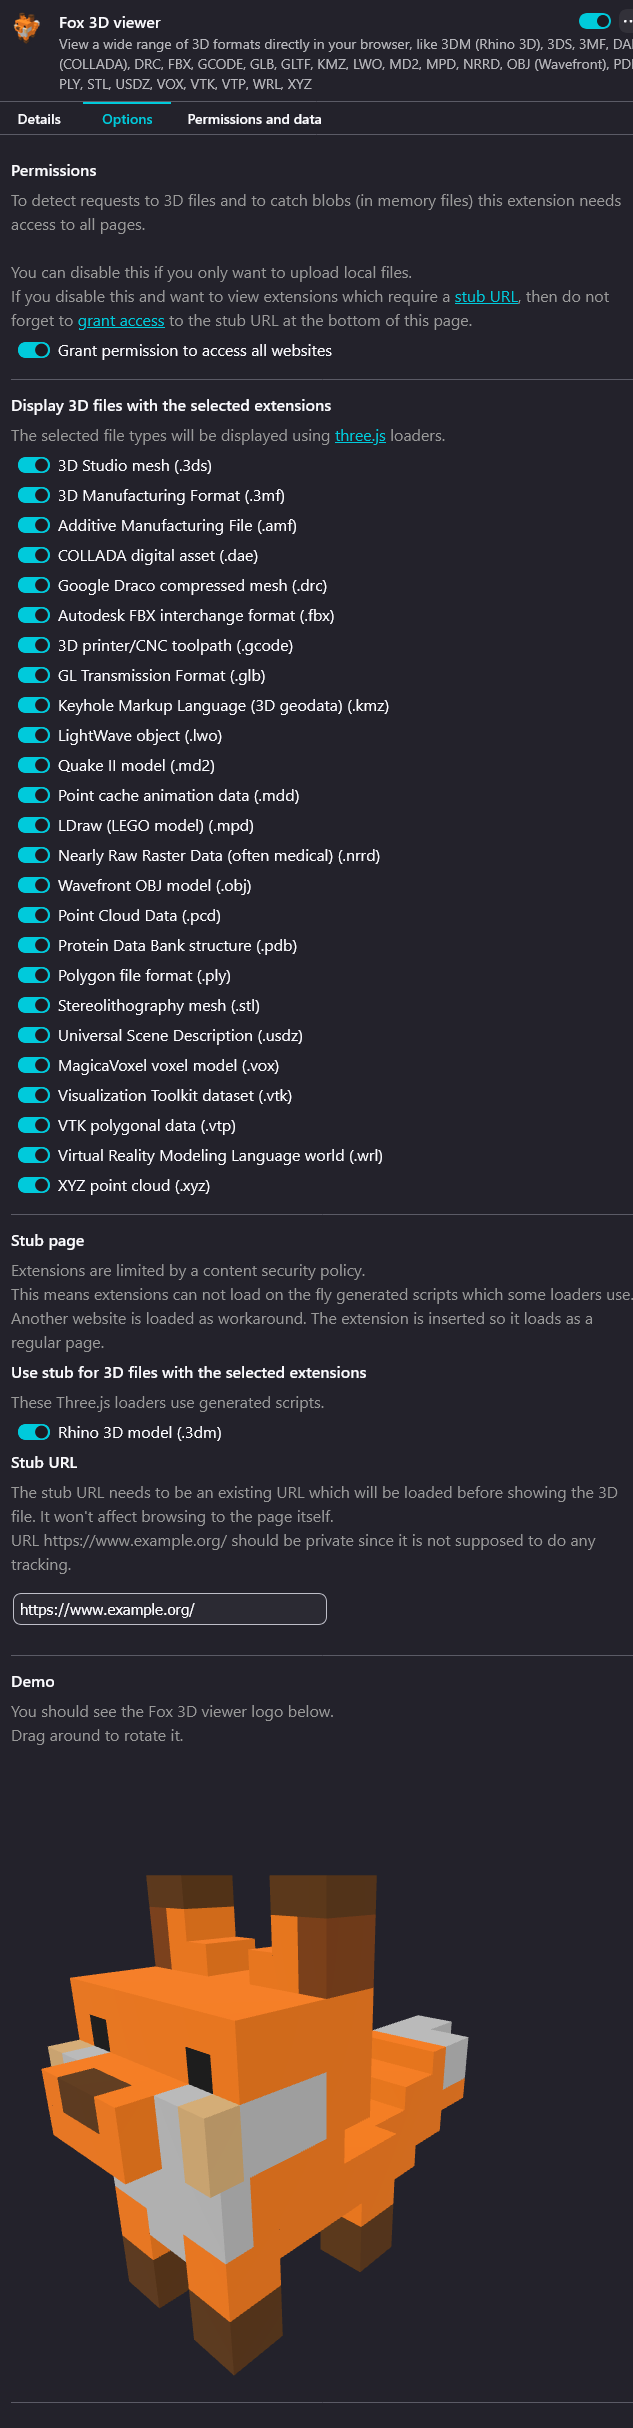
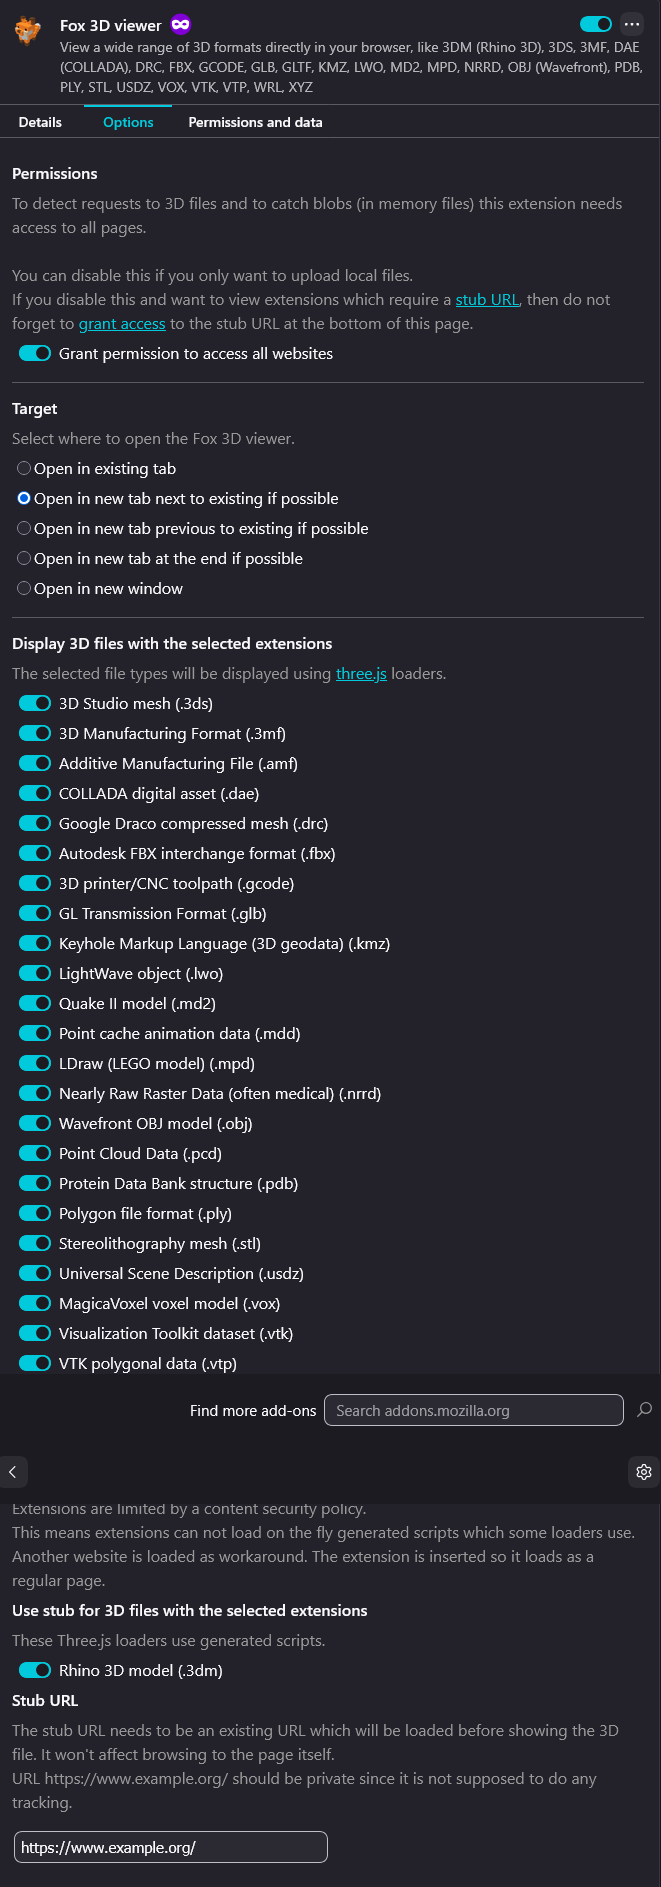
added latest screenshots

diff --git a/README.md b/README.md
@@ -10,11 +10,16 @@ View a wide range of 3D formats directly in your browser, like 3DM (Rhino 3D), 3
 
 - 🛡 **Your data is yours** — no ads, no external monitoring, no measurements
 - 🔗 **Automatic link detection** — URLs ending with a 3D file extension automatically open in the viewer
-- 🪤 **In memory download links** — Blob: download links with a 3D file extension automatically open in the viewer
+- 🪤 **In memory link detection** — Blob: download links with a 3D file extension automatically open in the viewer
 - 📂 **Open local files** — click on the toolbar button to view local files in the viewer
-- ✨ **Material presets** — switch between Default, Color, Cartoon, Flat, and a selection of materials
+- 👁 **Rotate, zoom, and move** — view as you like it by dragging the model and changing lights and camera
+- ✨ **Material presets** — switch between Default, Color, Cartoon, Flat, Wireframe, and a selection of materials
+- 🌅 **Backgrounds** — view your model against different backgrounds
+- 🥪 **Isometric view** — switch between perspective and isometric view
 - 📷 **PNG export** — render and download a screenshot of the current view
-- 💾 **Download button** — last but not least, download the original file
+- 🖨 **STL export** — convert your model to STL to 3D print
+- 🧊 **GLB export** — convert your model to GLB geometry which open in most 3D modeling tools
+- 💾 **Download original file** — last but not least, download the original file
 - 🤝 Open source **AGPL license** — you can modify the code for your fittings
 
 ---
@@ -60,7 +65,7 @@ A stub website is loaded as workaround. The extension is inserted so it loads as
 
 ## 📷 Screenshots
 
-<img src="/screenshots/vox.jpg" height="611" alt="Screenshot of Vox file opened in Fox 3D viewer" /> <a href="/screenshots/settings.png"><img src="/screenshots/settings.png" height="611" alt="Screenshot extension settings" /></a>
+<img src="/screenshots/vox.jpg" height="610" alt="Screenshot of Vox file opened in Fox 3D viewer" /> <a href="/screenshots/settings.png"><img src="/screenshots/settings.png" height="610" alt="Screenshot extension settings" /></a>
 
 ---
 
@@ -168,6 +173,11 @@ The next steps describe how Three.js was modified for use in this extension:
 
 ## 🚨 Troubleshooting
 
+Q: Simplify does not work
+**A: Simplify helper from Three.js seems a bit buggy:**
+**- Small models tend to loose vertices**
+**- Large models tend to simplify slowly**
+
 Q: On Fennec (Firefox for Android) my model disappears<br>
 **A: Sometimes Fennec suddenly refreshes and clears memory (this seems to happen especially with bigger models and moving them). Open the model again from the previous page.**
 
@@ -188,7 +198,7 @@ Q: My model does not load (properly)<br>
 ## 📚 Dependencies
 
 - [Three.js](https://threejs.org/) — 3D engine and most format loaders
-- [lil-gui](https://lil-gui.georgealways.com/) — GUI control panel
+- [lil-gui](https://lil-gui.georgealways.com/) — GUI control panel that came with Three.js
 - [drei](https://github.com/pmndrs/drei-vanilla) - MeshTransmissionMaterial is used for glass
 
 ---
